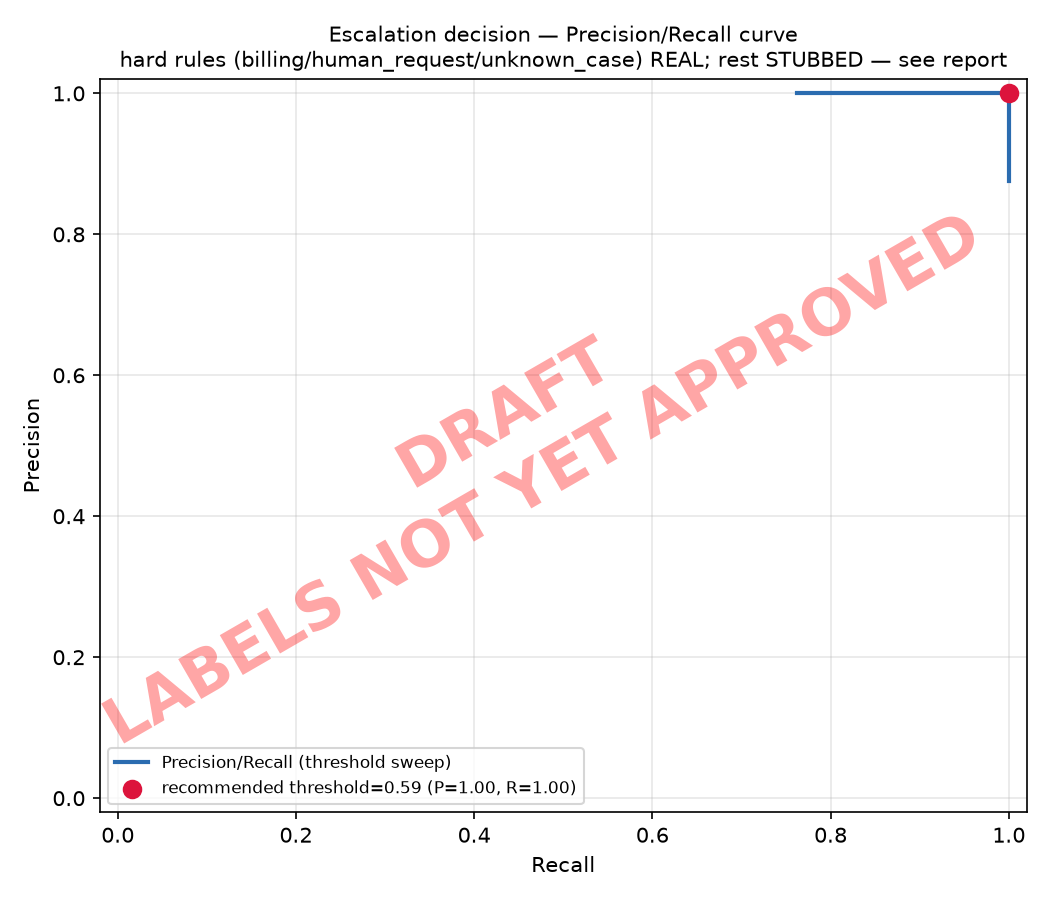
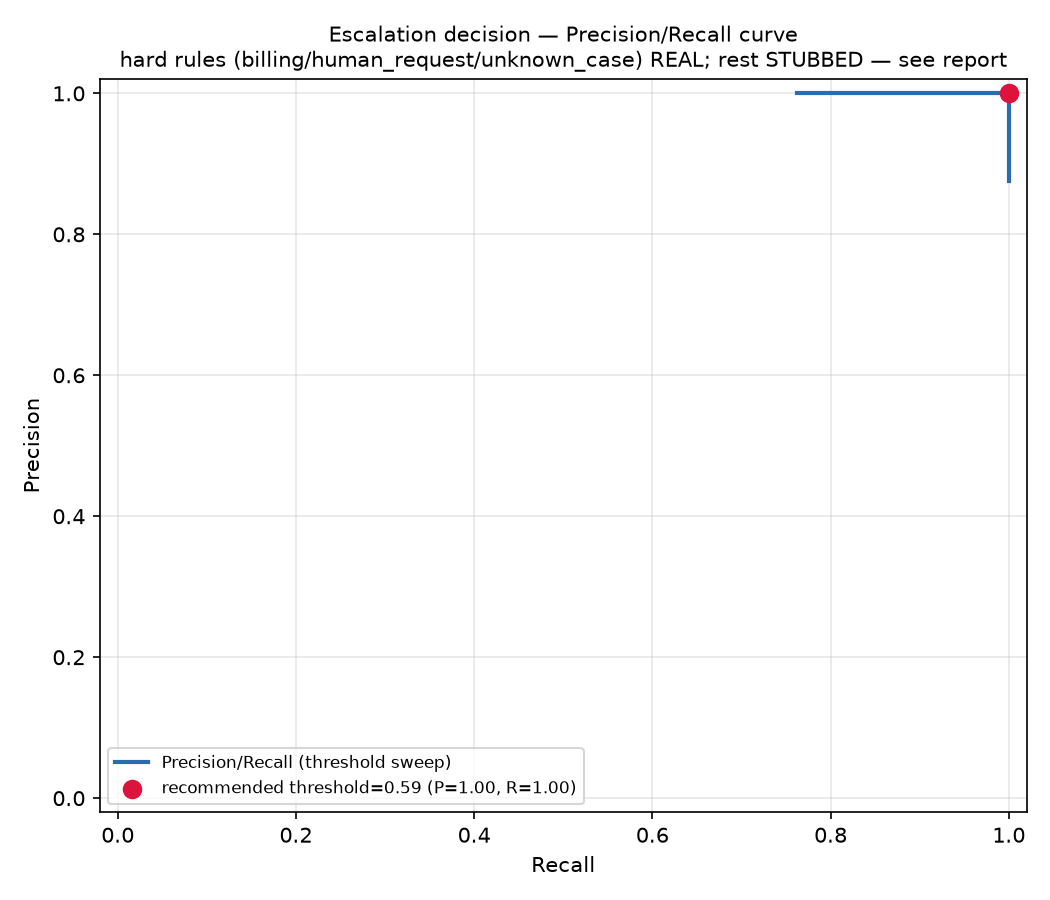
ticket-close: T-7

Changed region(s): [[0.0914, 0.3733, 0.6095, 0.84], [0.6095, 0.2178, 0.9448, 0.4978]]

diff --git a/docs/eval-report/report.md b/docs/eval-report/report.md
@@ -1,10 +1,8 @@
 # Escalation eval report — T-7
 
-**DRAFT — LABELS NOT YET APPROVED (see evals/labeled_set.yaml's approval: block and evals/REVIEW.md)**
+**FINAL — labels approved (see evals/labeled_set.yaml's approval: block)**
 
-> This report is generated end-to-end from `evals/labeled_set.yaml`, but that file's `approval.status` is `'PROPOSED_AWAITING_HUMAN_REVIEW'`, not `APPROVED`. Every number below is a DRAFT — proof the pipeline runs, not a real measurement. See `evals/REVIEW.md` for what the project owner needs to review before this can become a final report.
-
-Generated: 2026-08-14T06:40:43.483639+00:00
+Generated: 2026-08-15T22:03:14.513521+00:00
 Labeled tickets: 51
 
 ## Methodology — what is REAL vs STUBBED
@@ -133,4 +131,4 @@ Every ticket's REAL vs STUBBED signals, for audit — see `evals/report.py` modu
 | `esc-complexity-borderline-stalled-01` | no-escalate | no-escalate | — | classifier verdict [STUBBED]: escalate=True, confidence=0.58 |
 
 ---
-**DRAFT — LABELS NOT YET APPROVED (see evals/labeled_set.yaml's approval: block and evals/REVIEW.md)**
+**FINAL — labels approved (see evals/labeled_set.yaml's approval: block)**
